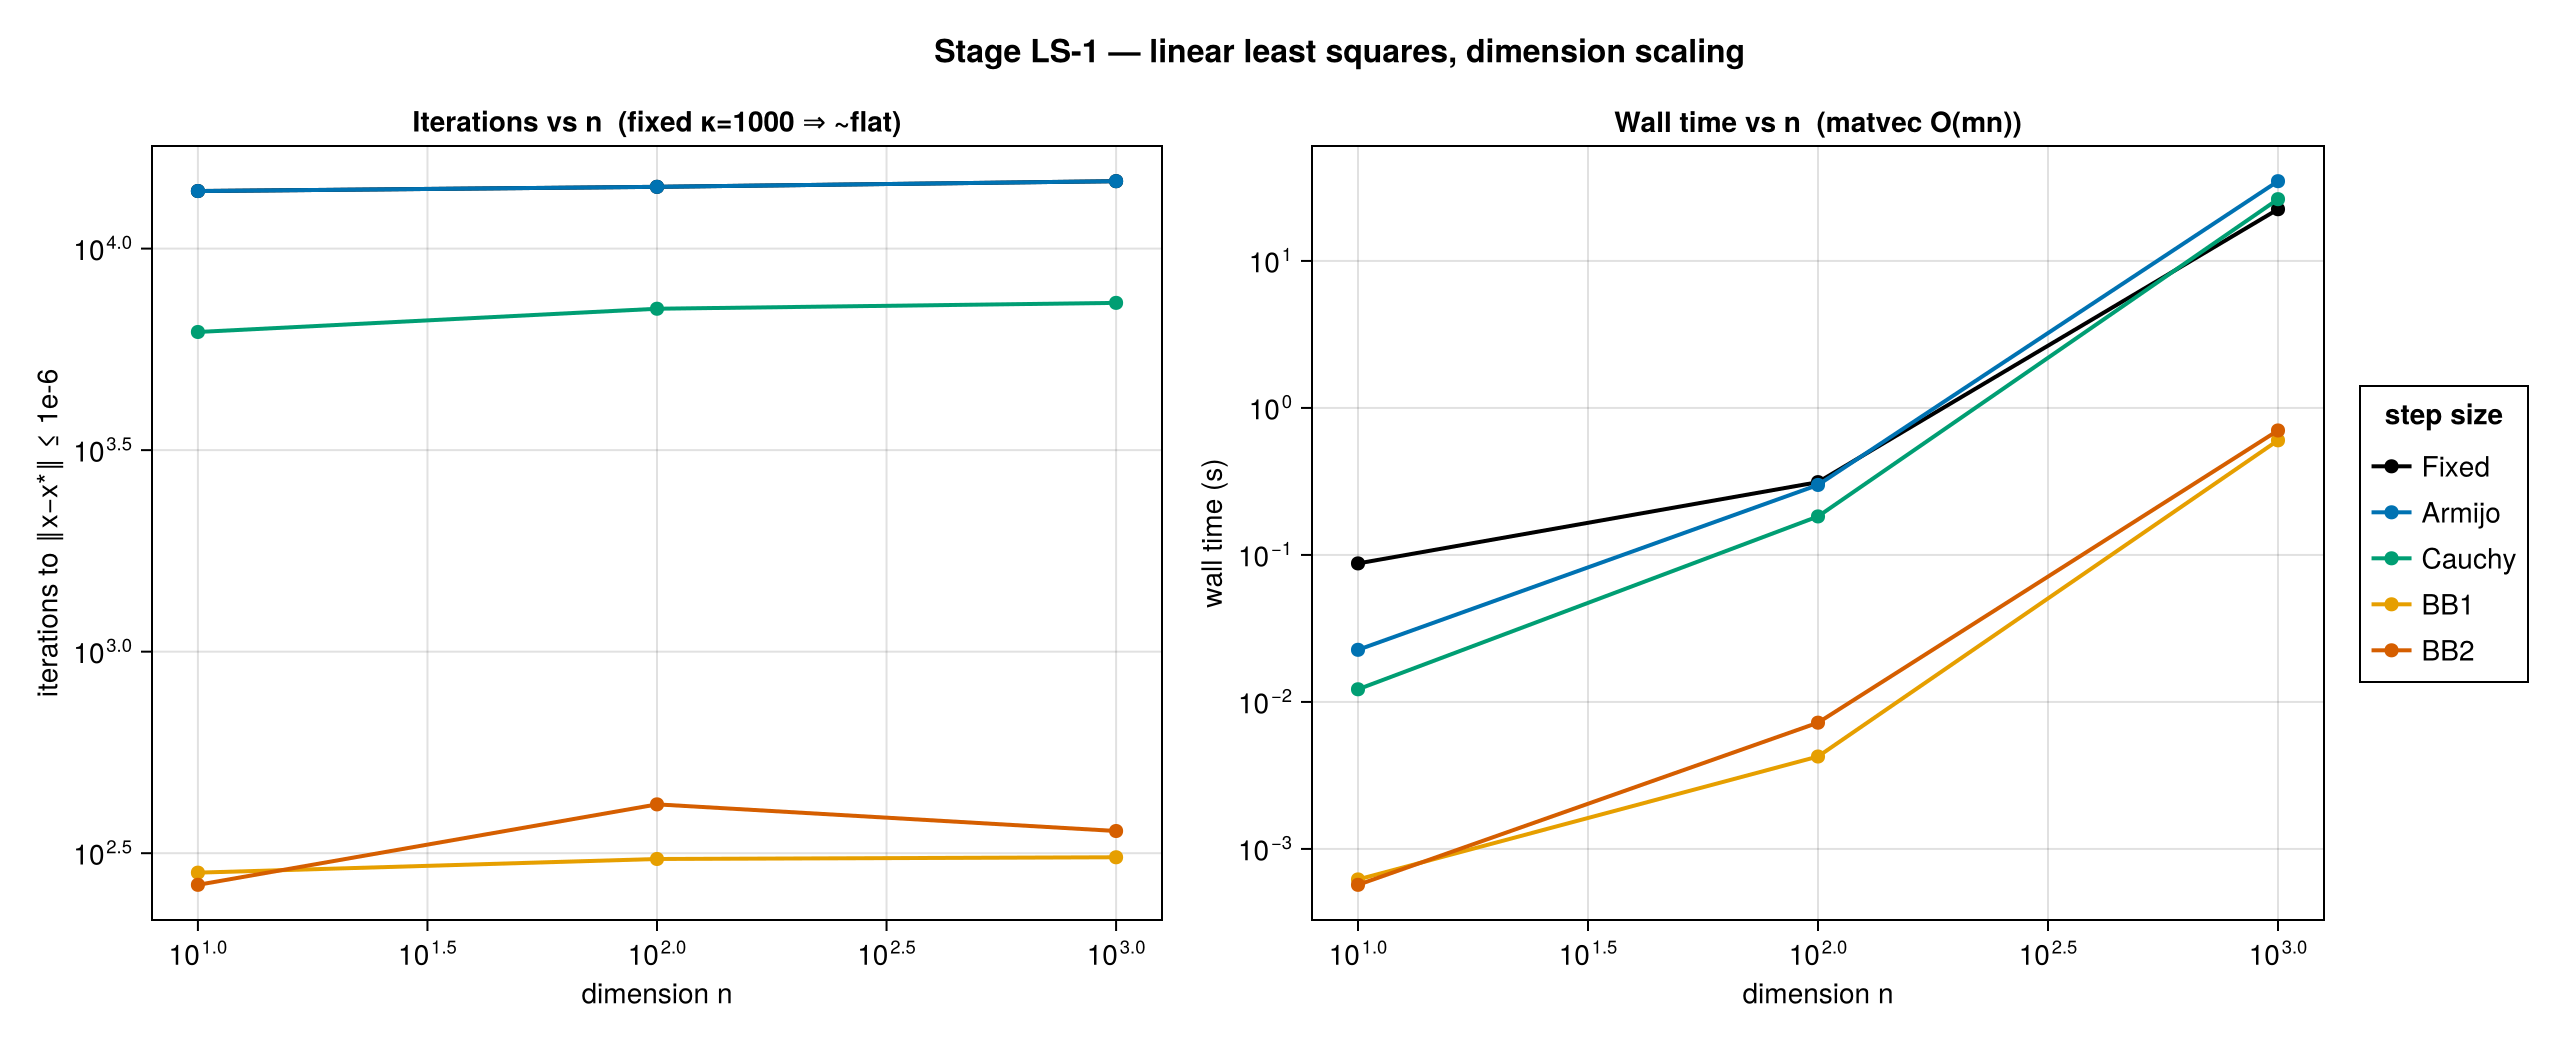
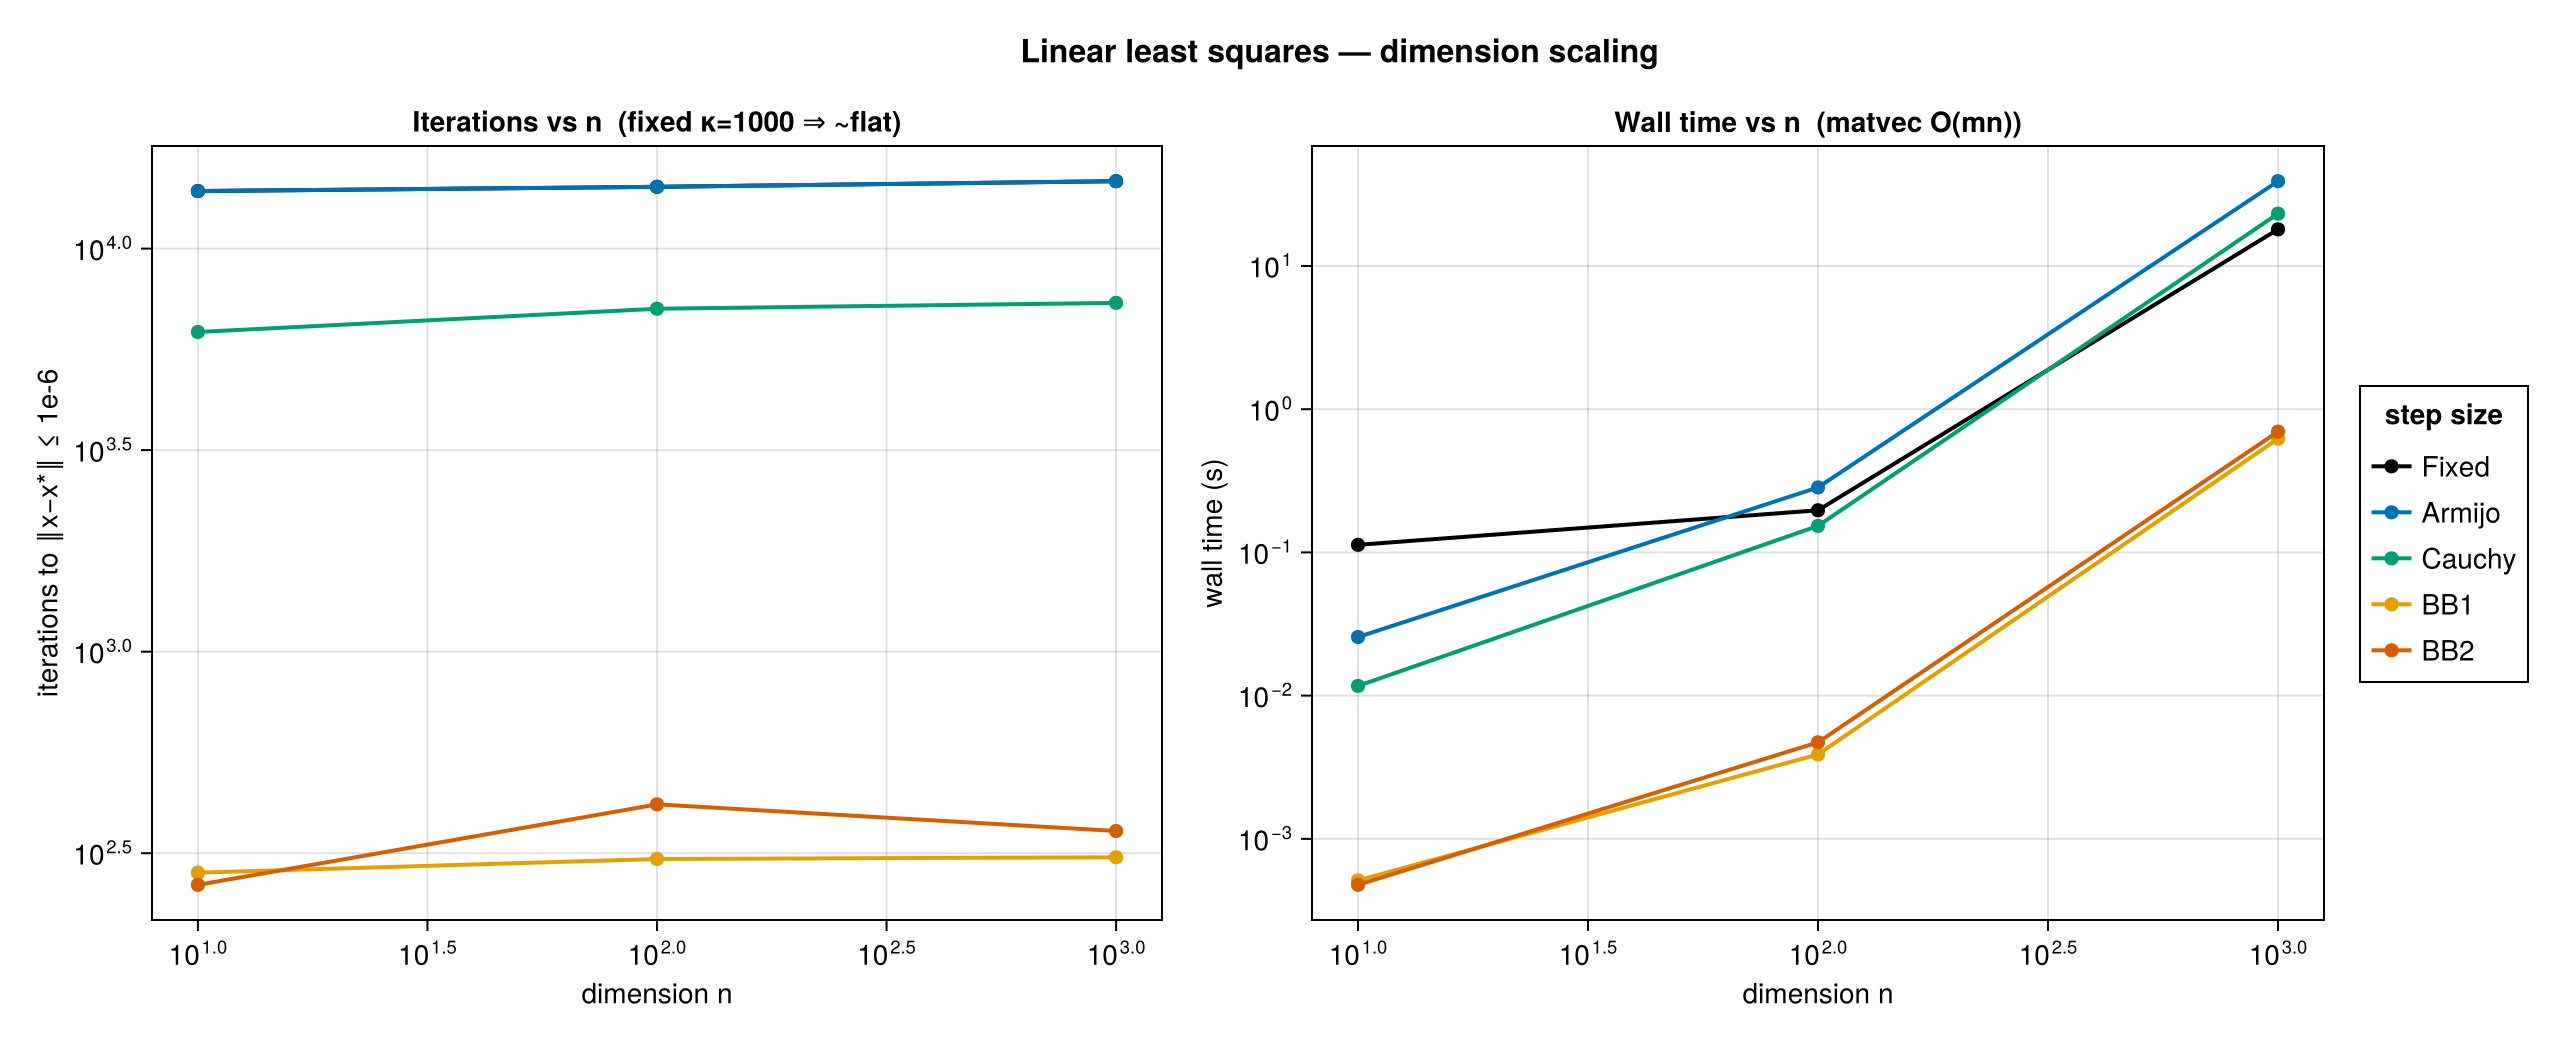
restructure READMEs

diff --git a/README.md b/README.md
@@ -27,23 +27,10 @@ julia --project scripts/reproduce.jl                 # writes all figures to fig
 `reproduce.jl` runs each portfolio experiment in its own process and writes the five
 figures into `figures/` (flagship figure first).
 
-## What it demonstrates
-
-Each capability has exactly one clean, working demonstrator you can watch run — no
-method zoo. The five shipped experiments:
-
-| Capability | Demonstrator | Figure |
-| --- | --- | --- |
-| Composite `f + g`, `prox` dispatch, Nesterov acceleration | `ProximalGradient` (ISTA → FISTA) on the lasso | `lasso_ista_fista.png` |
-| A scalable second problem family; matrix-free `OperatorHessian`; dimension scaling; the timing pillar as a real signal | Linear least squares + dimension sweep | `ls1_dimension.png` |
-| Conditioning controls the rate: `O(κ)` vs `O(√κ)` | Least squares + conditioning sweep | `ls2_conditioning.png` |
-| The signature workflow: define one experimental method, sweep it in a `VariantGrid`, route experimental vs conventional buckets; `DiagonalHessian` + Jacobi preconditioning ≈ Newton | `PreconditionedGradient` swept vs a baseline | `precond1_grid.png` |
-| Nested optimization: an inner solver minimizing a local model inside each outer step (`run_sub_method` / sub-log attachment / inner-vs-outer core time) | `TrustRegion` with a Steihaug-CG inner solve | `tr1_trust_region.png` |
-
-Correctness is **externally cross-checked**: converged solutions are matched against
-`A\b`, [`Optim.jl`](https://github.com/JuliaNLSolvers/Optim.jl) (GradientDescent / LBFGS),
-and [`ProximalAlgorithms.jl`](https://github.com/JuliaFirstOrder/ProximalAlgorithms.jl)
-(ForwardBackward / FastForwardBackward) — see `test/test_external_validation.jl`.
+For a catalog of these experiments — proximal-gradient on the lasso, least-squares
+dimension and conditioning sweeps, preconditioning, and a nested trust-region solve —
+with what each one demonstrates and all five figures, see
+**[experiments/README.md](experiments/README.md)**.
 
 ## Design in one breath
 
@@ -64,27 +51,6 @@ and [`ProximalAlgorithms.jl`](https://github.com/JuliaFirstOrder/ProximalAlgorit
 See **[DESIGN.md](DESIGN.md)** for a five-minute tour, or the
 **[architecture reference](https://MoFirouzT.github.io/Iterative-Methods-Test-Engine)**
 (one page per module) for the full maintainer view.
-
-## Run the tests
-
-```bash
-julia --project test/runtests.jl     # 200 tests
-```
-
-## Layout
-
-```text
-src/                 TestEngine module — abstractions + machinery only
-algorithms/          content: components/ (step sizes, preconditioners, …),
-                     conventional/ (GradientDescent, ProximalGradient, TrustRegion),
-                     experimental/ (PreconditionedGradient)
-problems/            content: rosenbrock, least_squares, lasso,
-                     separable_quadratic, regularizers
-experiments/         exp_*.jl portfolio scripts (+ _bootstrap.jl loader, _shared.jl helpers)
-experiments/stages/  the staged Rosenbrock build log (dev scaffold, not figures)
-scripts/reproduce.jl one command → all figures
-test/                runtests.jl + per-area test files
-```
 
 ## Going deeper
 
@@ -110,3 +76,24 @@ CI runs the full suite on every push via [GitHub Actions](.github/workflows/ci.y
 (`julia --project test/runtests.jl`, 200 tests). `Manifest.toml` is committed, so CI and
 `scripts/reproduce.jl` install the exact pinned dependency versions — the build is
 reproducible, not "latest that happens to resolve."
+
+## Run the tests
+
+```bash
+julia --project test/runtests.jl     # 200 tests
+```
+
+## Layout
+
+```text
+src/                 TestEngine module — abstractions + machinery only
+algorithms/          content: components/ (step sizes, preconditioners, …),
+                     conventional/ (GradientDescent, ProximalGradient, TrustRegion),
+                     experimental/ (PreconditionedGradient)
+problems/            content: rosenbrock, least_squares, lasso,
+                     separable_quadratic, regularizers
+experiments/         exp_*.jl portfolio scripts (+ _bootstrap.jl loader, _shared.jl helpers)
+experiments/stages/  the staged Rosenbrock build log (dev scaffold, not figures)
+scripts/reproduce.jl one command → all figures
+test/                runtests.jl + per-area test files
+```

diff --git a/experiments/README.md b/experiments/README.md
@@ -2,28 +2,58 @@
 
 Runnable scripts that drive the engine end-to-end. Two tracks live here:
 
-- **Portfolio experiments** (`exp_<problem>N.jl`) — the curated, problem-named
-  demonstrators that produce the figures in the [top-level README](../README.md).
-  One clean experiment per capability; these are the headline deliverables.
-- **[Development stages](stages/)** (`stages/stageN.jl`) — the demoted Rosenbrock
-  build log: scaffold that rehearsed the engine contract capability-by-capability.
-  Not portfolio results — see [stages/README.md](stages/README.md).
+- **Portfolio experiments** (`exp_<problem>.jl`) — the curated demonstrators,
+  named after their problem (the two least-squares experiments are `ls1`/`ls2`).
+  They produce the five figures in [`figures/`](../figures/), catalogued with what
+  each one demonstrates below. One clean experiment per capability — the headline
+  deliverables.
+- **[Development stages](stages/)** (`stages/stageN.jl`) — a capability-by-capability
+  validation of the engine, built in dependency order on a single 2D Rosenbrock
+  problem: each stage drives one architectural block and asserts its contract
+  before the next stage depends on it. Stage 0 runs in CI. These are the
+  integration checks behind the portfolio figures, not figures themselves — see
+  [stages/README.md](stages/README.md).
 
 `_bootstrap.jl` loads the engine + all content in dependency order; `_shared.jl`
 holds shared plotting recipes. Both are includes, not runnable scripts.
 
 ## Portfolio experiments
 
+Each capability has exactly one clean, working demonstrator you can watch run — no
+method zoo. The five shipped experiments:
+
 | Script | Figure | Demonstrates |
-|---|---|---|
-| [`exp_lasso1_ista_fista.jl`](exp_lasso1_ista_fista.jl) | `lasso_ista_fista.png` (flagship) | Composite `f + g`, `prox` dispatch, Nesterov acceleration (ISTA → FISTA) on the lasso |
+| --- | --- | --- |
+| [`exp_lasso_ista_fista.jl`](exp_lasso_ista_fista.jl) | `lasso_ista_fista.png` (flagship) | Composite `f + g`, `prox` dispatch, Nesterov acceleration (ISTA → FISTA) on the lasso |
 | [`exp_ls1_dimension.jl`](exp_ls1_dimension.jl) | `ls1_dimension.png` | Least-squares dimension sweep; matrix-free `OperatorHessian`; the core-time/wall-time timing pillar |
 | [`exp_ls2_conditioning.jl`](exp_ls2_conditioning.jl) | `ls2_conditioning.png` | Conditioning controls the rate: `O(κ)` vs `O(√κ)` |
-| [`exp_precond1_grid.jl`](exp_precond1_grid.jl) | `precond1_grid.png` | `VariantGrid` sweep + experimental/conventional routing; Jacobi preconditioning ≈ Newton |
-| [`exp_tr1.jl`](exp_tr1.jl) | `tr1_trust_region.png` | Nested optimization: `TrustRegion` with a Steihaug-CG inner solve |
+| [`exp_precond_grid.jl`](exp_precond_grid.jl) | `precond_grid.png` | `VariantGrid` sweep + experimental/conventional routing; Jacobi preconditioning ≈ Newton |
+| [`exp_tr_steihaug_cg.jl`](exp_tr_steihaug_cg.jl) | `tr_steihaug_cg.png` | Nested optimization: `TrustRegion` with a Steihaug-CG inner solve |
 
 Run any one with `julia --project=. experiments/exp_<name>.jl`, or regenerate
 every figure at once with [`scripts/reproduce.jl`](../scripts/reproduce.jl).
+
+Correctness is **externally cross-checked**: converged solutions are matched against
+`A\b`, [`Optim.jl`](https://github.com/JuliaNLSolvers/Optim.jl) (GradientDescent / LBFGS),
+and [`ProximalAlgorithms.jl`](https://github.com/JuliaFirstOrder/ProximalAlgorithms.jl)
+(ForwardBackward / FastForwardBackward) — see [`test/test_external_validation.jl`](../test/test_external_validation.jl).
+
+### Figures
+
+<img src="../figures/lasso_ista_fista.png" width="560" alt="ISTA vs FISTA on the lasso: FISTA's O(1/k²) acceleration over ISTA's O(1/k), and exact support recovery"><br>
+*`lasso_ista_fista` (flagship) — ISTA vs FISTA: `O(1/k²)` acceleration over `O(1/k)`, plus exact support recovery.*
+
+<img src="../figures/ls1_dimension.png" width="560" alt="Least-squares dimension sweep: convergence and the core-time/wall-time timing pillar across problem sizes"><br>
+*`ls1_dimension` — dimension sweep; matrix-free `OperatorHessian`; the core-time/wall-time timing pillar.*
+
+<img src="../figures/ls2_conditioning.png" width="560" alt="Least squares under a conditioning sweep: GD's rate degrades as O(κ) vs O(√κ)"><br>
+*`ls2_conditioning` — conditioning controls the rate: `O(κ)` vs `O(√κ)`.*
+
+<img src="../figures/precond_grid.png" width="560" alt="VariantGrid sweep of PreconditionedGradient vs a baseline; Jacobi preconditioning matches Newton on a diagonal quadratic"><br>
+*`precond_grid` — `VariantGrid` sweep + experimental/conventional routing; Jacobi preconditioning ≈ Newton.*
+
+<img src="../figures/tr_steihaug_cg.png" width="560" alt="TrustRegion with a Steihaug-CG inner solve: nested optimization with inner-vs-outer core time"><br>
+*`tr_steihaug_cg` — nested optimization: `TrustRegion` with a Steihaug-CG inner solve.*
 
 ## Planned — not yet built
 
@@ -43,6 +73,6 @@ is blocked on the noted work, not on the engine design.
 - **BB nonmonotone (GLL) safeguard** — the real fix for BB's clamp limitation
   (analysis in [`step_sizes.md §5.2`](../algorithms/components/step_sizes.md)).
 - **JLD2 struct-of-arrays schema migration** — ~5–10× smaller `result.jld2`
-  (analysis in [`architecture.md §10`](../docs/architecture.md#10-module-8--persistence--experiment-naming)).
+  (analysis in [`persistence.md`](../docs/src/modules/persistence.md)).
 - **Smaller swept variants** — a `MomentumStep` (heavy-ball) figure, a lasso
   sparsity-vs-λ sweep, and an `L2Norm` ridge demo are all cheap one-offs.

diff --git a/docs/src/internals.md b/docs/src/internals.md
@@ -89,12 +89,12 @@ TestEngine.jl/
 │   ├── README.md                # folder guide: portfolio track, stages, planned work
 │   ├── _bootstrap.jl             # assembles engine (TestEngine) + all content, in order
 │   ├── _shared.jl                # shared plotting helpers (Rosenbrock trajectory figure)
-│   ├── exp_lasso1_ista_fista.jl           # portfolio-item track: Stage LASSO-1 (flagship)
-│   ├── exp_ls1_dimension.jl               #   Stage LS-1: dimension scaling + timing pillar
-│   ├── exp_ls2_conditioning.jl            #   Stage LS-2: GD rate vs κ (slope 1 vs √κ)
-│   ├── exp_precond1_grid.jl               #   Stage EXP-1: VariantGrid + dual routing; Jacobi≈Newton
-│   ├── exp_tr1.jl                          #   Stage TR-1: TrustRegion + Steihaug-CG (nested optimization)
-│   └── stages/                            # demoted dev scaffold: staged Rosenbrock build log
+│   ├── exp_lasso_ista_fista.jl            # portfolio experiment: lasso (flagship)
+│   ├── exp_ls1_dimension.jl               #   ls1: dimension scaling + timing pillar
+│   ├── exp_ls2_conditioning.jl            #   ls2: GD rate vs κ (slope 1 vs √κ)
+│   ├── exp_precond_grid.jl                #   precond: VariantGrid + dual routing; Jacobi≈Newton
+│   ├── exp_tr_steihaug_cg.jl              #   tr: TrustRegion + Steihaug-CG (nested optimization)
+│   └── stages/                            # engine build log: capability-by-capability validation
 │       ├── stage1.jl … stage8.jl          #   per-stage validation of one architectural block each
 │       ├── smoke_test.jl                  #   Stage 0: end-to-end runner-contract smoke check (in CI)
 │       ├── figures/                       #   stage2_trajectories.png (surfaced in the README)

diff --git a/DESIGN.md b/DESIGN.md
@@ -1,8 +1,8 @@
 # DESIGN — a five-minute tour
 
-This is the short read. For the full maintainer reference see
-[docs/architecture.md](docs/architecture.md); for the one-command demo see
-[README.md](README.md).
+This is the short read. For the full maintainer reference see the
+[architecture docs site](https://MoFirouzT.github.io/Iterative-Methods-Test-Engine)
+(one page per module); for the one-command demo see [README.md](README.md).
 
 ## The problem it solves
 
@@ -52,7 +52,7 @@ on faith.
 
 ## One experiment, annotated: ISTA → FISTA on the lasso
 
-The flagship experiment ([experiments/exp_lasso1_ista_fista.jl](experiments/exp_lasso1_ista_fista.jl))
+The flagship experiment ([experiments/exp_lasso_ista_fista.jl](experiments/exp_lasso_ista_fista.jl))
 exercises the whole composite-objective path with a single method.
 
 **Problem.** Sparse recovery: `min_x ½‖Ax − b‖² + λ‖x‖₁`, underdetermined (`m < n`) with a
@@ -91,4 +91,4 @@ step-size curvature guard that misfired as `‖∇f‖→0`, and a missing-impor
 - The other four figures (dimension scaling + timing pillar, conditioning sweep, Jacobi
   preconditioning ≈ Newton, and trust-region + Steihaug-CG nested optimization) are in
   `figures/` and `experiments/exp_*.jl`.
-- Full internals: [docs/architecture.md](docs/architecture.md).
+- Full internals: the [architecture docs site](https://MoFirouzT.github.io/Iterative-Methods-Test-Engine).

diff --git a/problems/least_squares/least_squares.md b/problems/least_squares/least_squares.md
@@ -39,7 +39,7 @@ contract made concrete:
 
 | mode | returns | `apply` | `materialize` / `diagonal` | use |
 |---|---|---|---|---|
-| `:matrix` (default) | `MatrixHessian(AᵀA)` | matrix-vector | ✓ | small n; methods that read the diagonal (Jacobi preconditioner, Item 3) |
+| `:matrix` (default) | `MatrixHessian(AᵀA)` | matrix-vector | ✓ | small n; methods that read the diagonal (Jacobi preconditioner) |
 | `:operator` | `OperatorHessian(d → Aᵀ(A d), n)` | two O(mn) matvecs | ✗ | large n; the `:linear_ls` conditioning family |
 
 The default is `:matrix` so every existing call site (`:quadratic`, the lasso,
@@ -78,14 +78,14 @@ columns), `s = 10^range(0, −½log₁₀κ; length=n)`. The system is **consist
 Metadata: `meta[:condition_number] = κ`, `meta[:L] = σ_max² = 1` (the Lipschitz
 constant of `∇f`, ready for `FixedStep(α = 1/L)`), `meta[:m] = m`.
 
-## Experiments (the two-track `exp_ls*` files)
+## Experiments (the `exp_ls*` portfolio files)
 
-- **Stage LS-1 — dimension scaling** (`exp_ls1_dimension.jl`). Five GD variants,
+- **`ls1` — dimension scaling** (`exp_ls1_dimension.jl`). Five GD variants,
   fixed `κ`, sweep `n ∈ {10, 100, 1000}` (`m = 2n`). Iters-to-tolerance is ~flat
   in `n` (the rate depends on `κ`, not `n`); wall time grows ~`O(mn)` from the
   matvec. The **core_time/wall_time** ratio climbs into `[50%, 110%]` at
   `n = 1000`, retroactively validating the timing-discipline design pillar.
-- **Stage LS-2 — conditioning sweep** (`exp_ls2_conditioning.jl`). Fixed
+- **`ls2` — conditioning sweep** (`exp_ls2_conditioning.jl`). Fixed
   `n = 100`, sweep `κ`. Iters-to-tolerance vs `κ`, log-log: Fixed/Armijo/Cauchy
   scale `O(κ)` (slope ≈ 1); **BB is markedly flatter** (`O(√κ)`) — the slope
   difference is the validation.

diff --git a/experiments/stages/README.md b/experiments/stages/README.md
@@ -10,9 +10,9 @@ stages on a single 2D Rosenbrock problem (ρ = 100, x₀ = (−1.2, 1) unless no
 each stage validating one architectural block before the next depends on it. This
 directory is that build log; it is **development scaffold, not a portfolio result**.
 
-The curated, problem-named experiments that produce the figures in the top-level
-README live one level up (`experiments/exp_<problem>N.jl`) and are the project's
-headline deliverables. These stages are the rehearsal behind them.
+The curated, problem-named experiments that produce the portfolio figures live one
+level up (`experiments/exp_<problem>.jl`) and are the project's headline
+deliverables. These stages are the rehearsal behind them.
 
 > The build-up is intentional. Stages 0–4 hand-roll the per-method RNG derivation
 > and run loop, rehearsing the orchestrator's contract before depending on it.

diff --git a/algorithms/components/step_sizes.md b/algorithms/components/step_sizes.md
@@ -186,7 +186,7 @@ end
 > bug until the `:linear_ls` family exercised the small-gradient regime.
 
 > **Hessian abstraction.** `hessian(problem.f, x)` returns a `Hessian` object
-> (see `architecture.md` §3 — Module 1). For Rosenbrock this is a `MatrixHessian`
+> (see `docs/src/modules/problem-interface.md`). For Rosenbrock this is a `MatrixHessian`
 > wrapping a 2×2 matrix; for higher-dimensional problems it may be an
 > `OperatorHessian` or a quasi-Newton approximation. `apply(H, d)` is the
 > required operation across all subtypes — `CauchyStep` does not need to know
@@ -280,7 +280,7 @@ end
 > `total_objective(problem, x_trial)` evaluates the composite objective
 > $f(x) + \sum_i g_i(x)$. For the pure Rosenbrock problem (no regularizer)
 > this reduces to `value(problem.f, x_trial)` because `problem.gs` is empty.
-> See `architecture.md` §3 — Module 1 for the helper definition.
+> See `docs/src/modules/problem-interface.md` for the helper definition.
 
 ### 4.4 Variable Mapping
 

diff --git a/algorithms/conventional/trust_region/trust_region.md b/algorithms/conventional/trust_region/trust_region.md
@@ -62,9 +62,9 @@ cumulative-core plots reflect *all* work — and **also** exposed per-step as
 `extras[:inner_core_ns]` for an inner/outer breakdown. `run_sub_method` is *not*
 wrapped in `@core_timed` (that would count inner wall/scaffolding time). Each
 outer entry also carries the inner CG trace in `extras[:sub_logs]`. See
-architecture.md §7.
+`docs/src/modules/nested-algorithms.md`.
 
-## Win conditions (Stage TR-1)
+## Win conditions (trust-region experiment)
 
 - Trust-region-Newton reaches high accuracy on Rosenbrock in **~24 outer
   iterations** (`gradient_converged`) — far fewer than the first-order baselines.

diff --git a/problems/rosenbrock/rosenbrock.md b/problems/rosenbrock/rosenbrock.md
@@ -87,7 +87,7 @@ end
 ```
 
 `RosenbrockObjective` subtypes the framework's `Objective` abstract type
-(see `architecture.md` §3 — Module 1).
+(see `docs/src/modules/problem-interface.md`).
 
 ### 3.2 Objective Value
 
@@ -123,7 +123,7 @@ end
 ### 3.4 Hessian
 
 The framework's `Objective` interface returns a `Hessian` object, not a single
-vector or matrix (see `architecture.md` §3 — Module 1). For Rosenbrock the matrix
+vector or matrix (see `docs/src/modules/problem-interface.md`). For Rosenbrock the matrix
 is 2×2, so the natural choice is `MatrixHessian` — both `apply(H, d)` and
 `materialize(H)` are essentially free.
 

diff --git a/algorithms/components/preconditioners.md b/algorithms/components/preconditioners.md
@@ -49,4 +49,4 @@ For `f(x) = ½ xᵀ D x` with `D = diag(d)`: `∇f = D x`, `diag(∇²f) = d`, s
 `M⁻¹∇f = D⁻¹ D x = x` and a unit step gives `x − x = x* = 0` in **one
 iteration**, independent of the condition number `κ = max d / min d`. Plain
 gradient descent on the same problem crawls at rate `1 − 1/κ`. That gap — orders
-of magnitude in iteration count — is what Stage EXP-1 shows.
+of magnitude in iteration count — is what the preconditioning experiment shows.

diff --git a/algorithms/conventional/gradient_descent.md b/algorithms/conventional/gradient_descent.md
@@ -4,7 +4,7 @@
 > - `problems/rosenbrock/rosenbrock.md` — problem interface, `Objective`, `grad!`, `hessian`
 > - `algorithms/conventional/gradient_descent/components/descent_directions.md` — `DescentDirection` abstraction
 > - `algorithms/conventional/gradient_descent/components/step_sizes.md` — `StepSize` / `LineSearch` abstractions
-> - `src/architecture.md` — state groups, runner contract, `@core_timed`, logger injection
+> - `docs/src/modules/algorithm-core.md` — state groups, runner contract, `@core_timed`, logger injection
 
 ---
 

diff --git a/algorithms/conventional/proximal_gradient/proximal_gradient.md b/algorithms/conventional/proximal_gradient/proximal_gradient.md
@@ -68,7 +68,7 @@ Exactly **one** gradient evaluation and **one** `prox` call per step.
 - Supports **0 or 1** regularizer. A sum of several nonsmooth terms needs
   operator splitting and raises an `ArgumentError`.
 
-## 6. Win conditions (Stage LASSO-1)
+## 6. Win conditions (lasso experiment)
 
 - `prox` called once per step with step `γ`; `total_objective` sums `f + g`.
 - FISTA's `f − f*` curve visibly beats ISTA's (`O(1/k²)` vs `O(1/k)`).